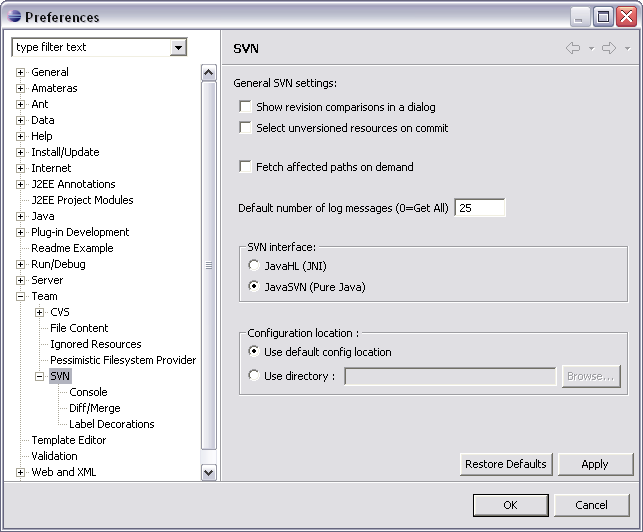
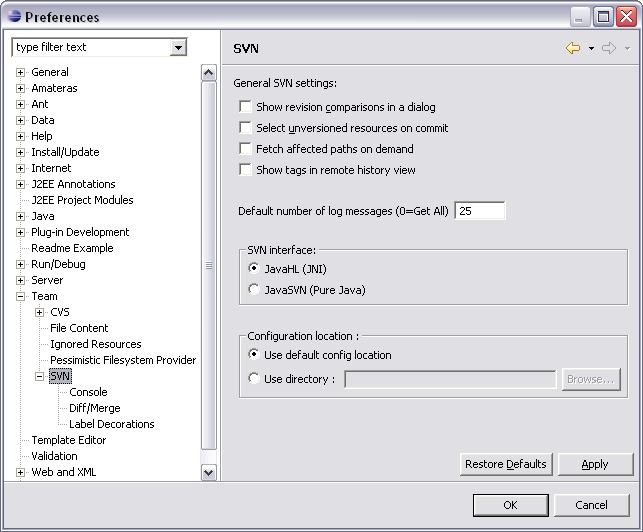
Updated the SVN preferences screenshot to reflect version 0.9.102.  Added the text to support the new Tag preference and corrected a typo and headings in configure-tags.html.

diff --git a/subclipse/ui/html/reference/configure-tags.html b/subclipse/ui/html/reference/configure-tags.html
@@ -6,7 +6,7 @@
 <title>Configure Branches/Tags</title>
 </head>
 <body>
-<h1>Congfigure Branches/Tags</h1>
+<h1>Configure Branches/Tags</h1>
 <p>
 	In many ways, the support for branching and tagging in SVN represents a vast improvement over
 	CVS.  It certainly addresses many of the complaints with this feature in CVS.  There is one significant
@@ -49,7 +49,7 @@ revision_number,tag_name,relative_path,branch/tag
 	Once the property has been defined, there are a number of ways that the plug-in takes advantage of it.
 </p>
 
-<h3>History Browsing</h3>
+<h2>History Browsing</h2>
 <p>
 	The Resource History View contains a column to show the tags for a revision.
 </p>
@@ -62,7 +62,7 @@ revision_number,tag_name,relative_path,branch/tag
 	<tt>subclipse:tags</tt> property.  On a slow connection you probably would not want to do this.
 </p>
 
-<h3>Compare Revisions</h3>
+<h2>Compare Revisions</h2>
 <p>
 	The Compare with Revision ... option also contains a column to show tags in its history view.  This
 	makes it easy to know which revisions you want to compare.
@@ -71,7 +71,7 @@ revision_number,tag_name,relative_path,branch/tag
 	<img src="../images/compare_revision.png" alt="Revision Compare" />
 </p>
 
-<h3>URL Chooser</h3>
+<h2>URL Chooser</h2>
 <p>
 	The URL Chooser that allows you to pick a URL in many of the SVN dialogs also shows the
 	Branch/Tag information.  This allows you to just select a branch/tag and the proper URL to
@@ -81,9 +81,9 @@ revision_number,tag_name,relative_path,branch/tag
 	<img src="../images/choose_url.png" alt="Repository Browser" />
 </p>
 
-<h3>Updating the Property</h3>
+<h2>Updating the Property</h2>
 <p>
-	In addition to the <b>Configures Branches and Tags</b> option, there is also support
+	In addition to the <span class="name">Configures Branches and Tags</span> option, there is also support
 	for automatically updating the <tt>subclipse:tags</tt> property when you create a Branch/Tag
 	from within Eclipse.  When you take this option, if we the <tt>subclipse:tags</tt> property
 	exists on the item you selected, then a pop-up dialog will appear that allows you to

diff --git a/subclipse/ui/html/reference/preferences.html b/subclipse/ui/html/reference/preferences.html
@@ -21,8 +21,9 @@
     This setting launches the revision comparison in a dialog.</dd>
     <dt>Select unversioned resources on commit</dt>
     <dd>
-        <span class="action">Check</span> this setting to have SVN automatically select all unversioned resources
-        in your <a href="glossary.html">working copy</a> when performing a commit operation. 
+        <span class="action">Check</span> this setting to have SVN automatically
+        select all unversioned resources in your <a href="glossary.html">working
+        copy</a> when performing a commit operation. 
     </dd>
     <dt>Fetch affected paths on demand</dt>
     <dd>
@@ -33,13 +34,19 @@
             with thousands of changed items
 .    
     </dd>
+    <dt>Show tags in remote history view </dt>
+    <dd>
+    Checking this option will cause SVN to show
+        tag information when browsing history directly from the repository.
+        On a slow connection you probably would not want to do this.
+    </dd>
     <dt>Default number of log messages</dt>
     <dd>
-        Specify the number of log messages to retrieve from the repository when
-        viewing log history. An entry of zero (0) will tell SVN to retrieve all
-        of the available log messages.
-    </dd>
-</dl>
+    Specify the number of log messages to retrieve from the repository when viewing
+        log history. An entry of zero (0) will tell SVN to retrieve all of the
+        available log messages.
+</dd>
+    </dl>
 <h3>    SVN Interface</h3>
 <p>
     This setting controls whether SVN should utilise the JavaHL (JNI) or JavaSVN
@@ -186,7 +193,7 @@ the decorator to use at the folder level.
     Related Reference
 </p>
 <p>
-    None
+    <a href="configure-tags.html">Configuring branches and tags</a> 
 </p>
 </body>
 </html>
